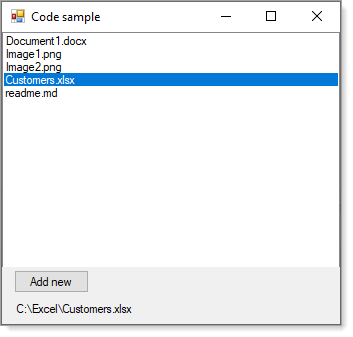
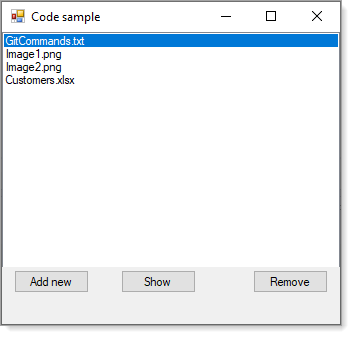
minor mods/additions

diff --git a/ListBoxFromFileList/Form1.Designer.cs b/ListBoxFromFileList/Form1.Designer.cs
@@ -33,6 +33,8 @@ namespace ListBoxFromFileList
             this.AddNewButton = new System.Windows.Forms.Button();
             this.label1 = new System.Windows.Forms.Label();
             this.panel1 = new System.Windows.Forms.Panel();
+            this.RemoveButton = new System.Windows.Forms.Button();
+            this.SHowButton = new System.Windows.Forms.Button();
             this.panel1.SuspendLayout();
             this.SuspendLayout();
             // 
@@ -67,6 +69,8 @@ namespace ListBoxFromFileList
             // 
             // panel1
             // 
+            this.panel1.Controls.Add(this.SHowButton);
+            this.panel1.Controls.Add(this.RemoveButton);
             this.panel1.Controls.Add(this.label1);
             this.panel1.Controls.Add(this.AddNewButton);
             this.panel1.Dock = System.Windows.Forms.DockStyle.Bottom;
@@ -74,6 +78,26 @@ namespace ListBoxFromFileList
             this.panel1.Name = "panel1";
             this.panel1.Size = new System.Drawing.Size(338, 57);
             this.panel1.TabIndex = 3;
+            // 
+            // RemoveButton
+            // 
+            this.RemoveButton.Location = new System.Drawing.Point(251, 3);
+            this.RemoveButton.Name = "RemoveButton";
+            this.RemoveButton.Size = new System.Drawing.Size(75, 23);
+            this.RemoveButton.TabIndex = 3;
+            this.RemoveButton.Text = "Remove";
+            this.RemoveButton.UseVisualStyleBackColor = true;
+            this.RemoveButton.Click += new System.EventHandler(this.RemoveButton_Click);
+            // 
+            // SHowButton
+            // 
+            this.SHowButton.Location = new System.Drawing.Point(119, 3);
+            this.SHowButton.Name = "SHowButton";
+            this.SHowButton.Size = new System.Drawing.Size(75, 23);
+            this.SHowButton.TabIndex = 4;
+            this.SHowButton.Text = "Show";
+            this.SHowButton.UseVisualStyleBackColor = true;
+            this.SHowButton.Click += new System.EventHandler(this.ShowButton_Click);
             // 
             // Form1
             // 
@@ -97,6 +121,8 @@ namespace ListBoxFromFileList
         private System.Windows.Forms.Button AddNewButton;
         private System.Windows.Forms.Label label1;
         private System.Windows.Forms.Panel panel1;
+        private System.Windows.Forms.Button RemoveButton;
+        private System.Windows.Forms.Button SHowButton;
     }
 }
 

diff --git a/ListBoxFromFileList/Form1.cs b/ListBoxFromFileList/Form1.cs
@@ -10,6 +10,7 @@ using System.Threading.Tasks;
 using System.Windows.Forms;
 using ListBoxFromFileList.Classes;
 using Newtonsoft.Json;
+using static ListBoxFromFileList.Dialogs;
 
 namespace ListBoxFromFileList
 {
@@ -27,8 +28,25 @@ namespace ListBoxFromFileList
             listBox1.DataSource = _BindingSource;
             
             listBox1.MouseDoubleClick += ListBox1OnMouseDoubleClick;
+            _BindingSource.PositionChanged += BindingSourceOnPositionChanged;
             
             Closing += OnClosing;
+
+            PositionChanged();
+        }
+        
+
+        private void BindingSourceOnPositionChanged(object sender, EventArgs e)
+        {
+            PositionChanged();
+        }
+
+        private void PositionChanged()
+        {
+            if (_BindingSource.Current == null) return;
+
+            var current = ((FileItem) _BindingSource.Current);
+            Console.WriteLine(current.FileName);
         }
 
         private void OnClosing(object sender, CancelEventArgs e)
@@ -52,6 +70,40 @@ namespace ListBoxFromFileList
         private void AddNewButton_Click(object sender, EventArgs e)
         {
             _BindingSource.Add(new FileItem() {FullName = "D:\\Docs\\readme.md"});
+        }
+
+        private void RemoveButton_Click(object sender, EventArgs e)
+        {
+            if (_BindingSource.Current != null)
+            {
+                if (Question("Remove current item?"))
+                {
+                    _BindingSource.RemoveCurrent();
+                }
+            }
+        }
+
+        /// <summary>
+        /// Quickie example to show files for selected item in list box
+        /// </summary>
+        /// <param name="sender"></param>
+        /// <param name="e"></param>
+        private void ShowButton_Click(object sender, EventArgs e)
+        {
+            if (_BindingSource.Current == null) return;
+            
+            var current = ((FileItem)_BindingSource.Current);
+
+
+            if (!Directory.Exists(current.FolderName)) return;
+            
+            var files = Directory.GetFiles(current.FolderName);
+            Console.WriteLine($"Files for {current.FolderName}");
+            foreach (var file in files)
+            {
+                Console.WriteLine($"\t{file}");
+            }
+
         }
     }
 }

diff --git a/ListBoxFromFileList/Classes/Dialogs.cs b/ListBoxFromFileList/Classes/Dialogs.cs
@@ -1,0 +1,17 @@
+using System.Windows.Forms;
+
+namespace ListBoxFromFileList
+{
+    public static class Dialogs
+    {
+        public static bool Question(string text)
+        {
+            return (MessageBox.Show(
+                text,
+                Application.ProductName,
+                MessageBoxButtons.YesNo,
+                MessageBoxIcon.Question,
+                MessageBoxDefaultButton.Button2) == DialogResult.Yes);
+        }
+    }
+}

diff --git a/ListBoxFromFileList/Classes/FileItem.cs b/ListBoxFromFileList/Classes/FileItem.cs
@@ -26,6 +26,8 @@ namespace ListBoxFromFileList.Classes
 
         [JsonIgnore]
         public string FileName => Path.GetFileName(FullName);
+        [JsonIgnore]
+        public string FolderName => Path.GetDirectoryName(FullName);
         public override string ToString() => FileName;
         public event PropertyChangedEventHandler PropertyChanged;
         protected virtual void OnPropertyChanged([CallerMemberName] string propertyName = null)
